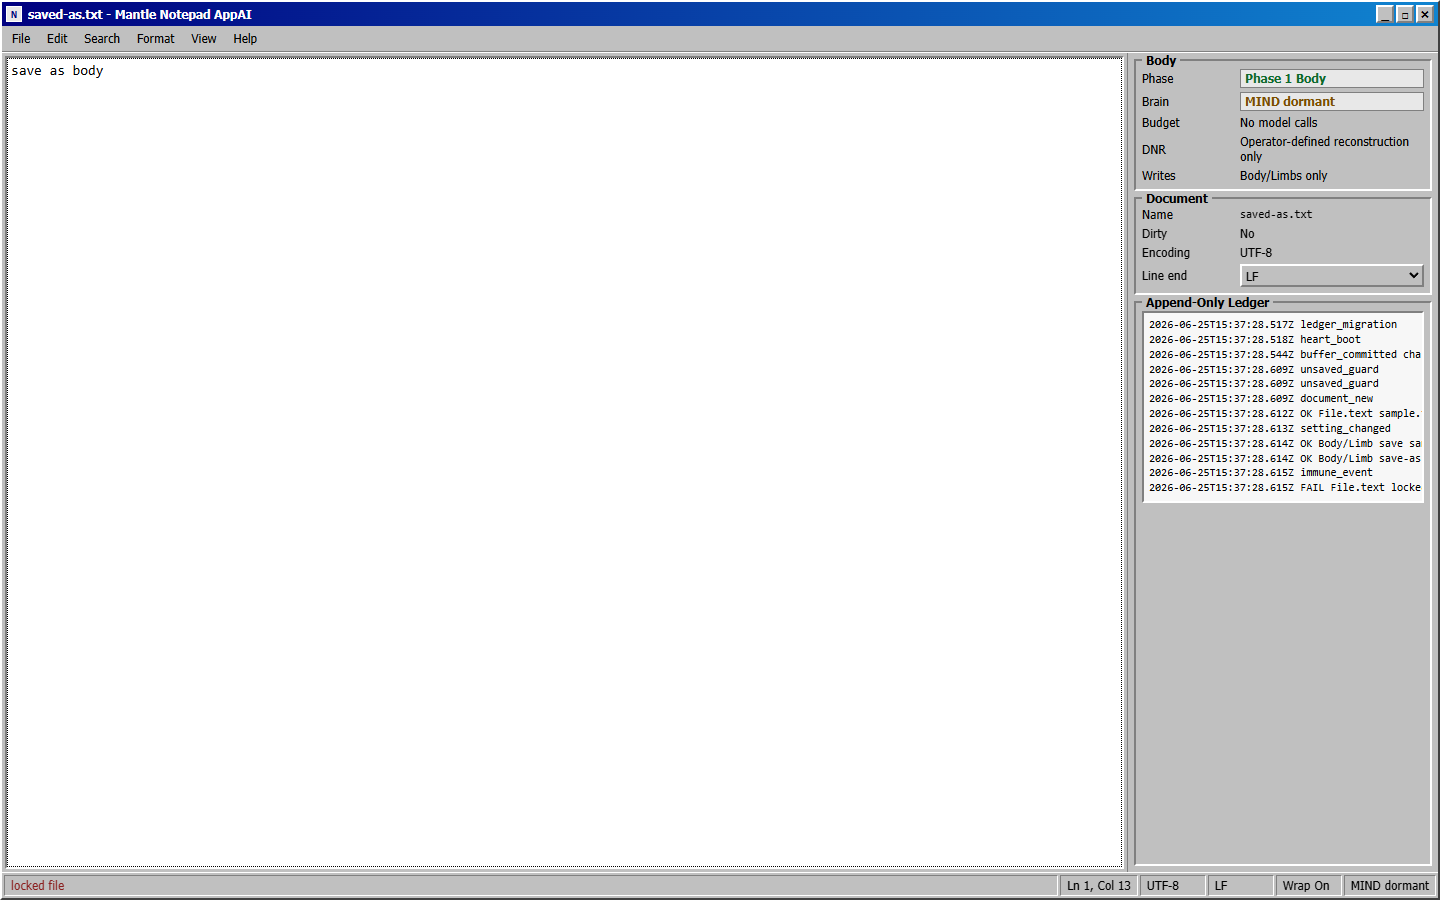
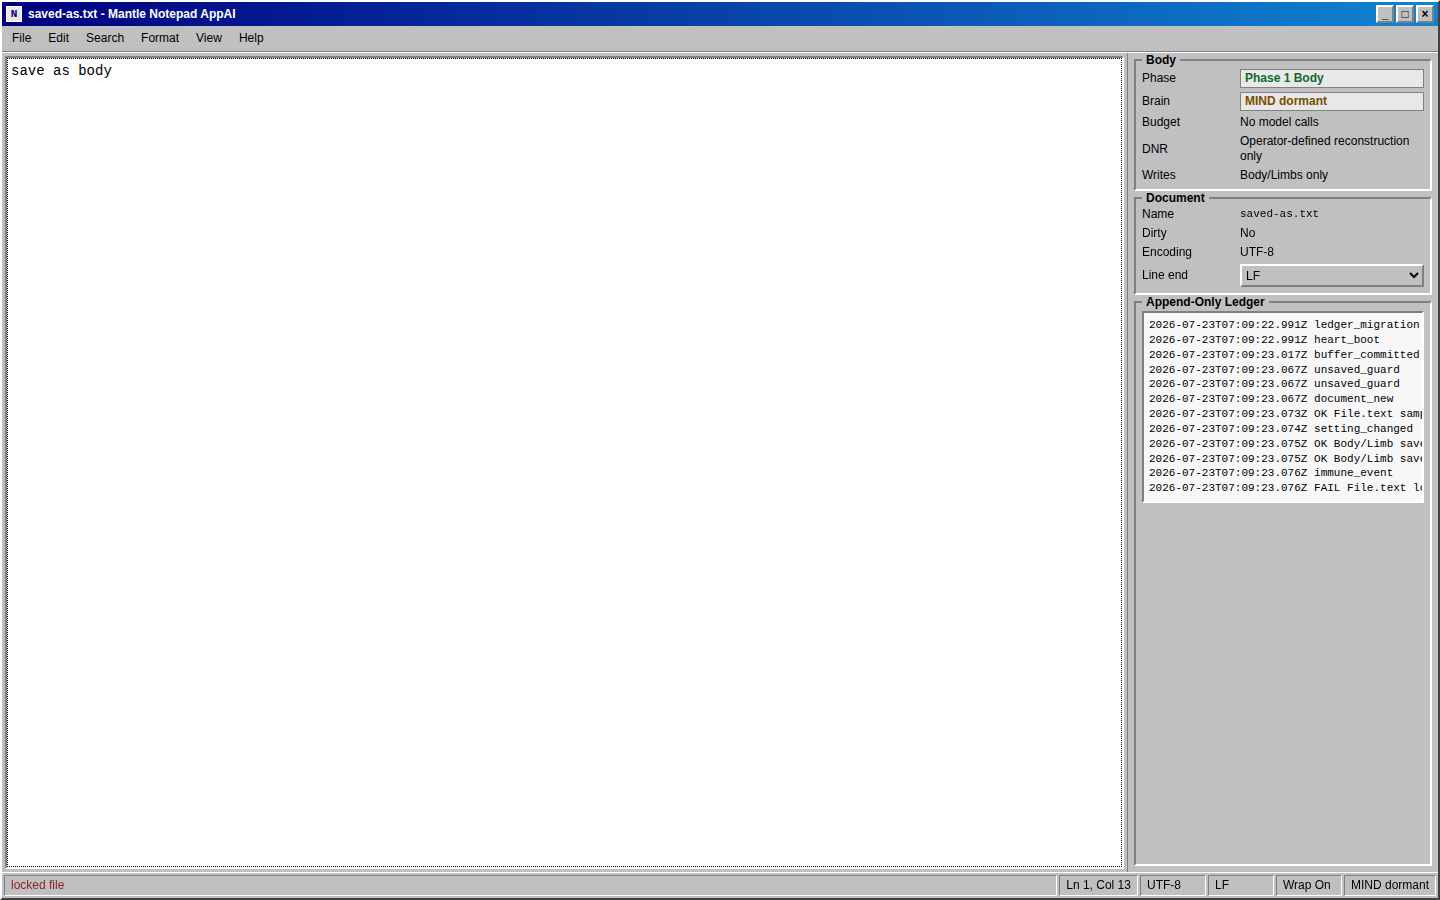
Release 1.4.0: the streamlining release
CHANGELOG entry for the rework: one artifact (the germ-carrying spore), one
birth door (mantle hatch), one reading order (README -> PRIMER -> teach),
derived counts, unified rebirth heirlooms, and the removal of the vendored
duplicate tree and the self-audit meta-layer. SECURITY.md's release reference
and the Hermes addon's version assertions now derive from the shipped runtime
instead of hardcoding a number.

Claude-Session: https://claude.ai/code/session_017nZVpKX3sxMREac5PaZ87n

diff --git a/examples/Mantle_Spreadsheet_Agent.html b/examples/Mantle_Spreadsheet_Agent.html
@@ -499,10 +499,9 @@
       framework: "Mantle OS · Gen-4",
       auditBundle: [
         "documents/PRIMER.md",
-                "documents/PRIMER.md",
         "documents/FIELD_GUIDE.md",
         "documents/Mantle_Organ_Atlas.md",
-                                "documents/ARCHITECTURE.md",
+        "documents/ARCHITECTURE.md",
         "documents/grimoire/The Grimoire.md",
         "documents/Mantle_Extensions.md",
         "examples/vcw/GUIDE.md",

diff --git a/examples/hermes-mantle-addon/tests/test_tools.py b/examples/hermes-mantle-addon/tests/test_tools.py
@@ -51,6 +51,14 @@ class RecordingContext:
         )
 
 
+def shipped_mantle_version() -> str:
+    """The version literal of the runtime the addon actually loads (never hardcoded)."""
+    import re
+    tools = load_module("hermes_mantle_tools_version_probe", TOOLS_PATH)
+    source = (tools._MANTLE_PACKAGE / "__init__.py").read_text(encoding="utf-8")
+    return re.search(r'__version__ = "([^"]+)"', source).group(1)
+
+
 class MantleStatusTests(unittest.TestCase):
     def test_status_reports_vendored_mantle_capabilities(self):
         tools = load_module("hermes_mantle_tools", TOOLS_PATH)
@@ -58,7 +66,7 @@ class MantleStatusTests(unittest.TestCase):
         result = json.loads(tools.mantle_status({}))
 
         self.assertTrue(result["success"])
-        self.assertEqual("1.3.0", result["mantle_version"])
+        self.assertEqual(shipped_mantle_version(), result["mantle_version"])
         self.assertEqual("true", result["mantle_scope"])
         self.assertEqual("vendored", result["source"])
         self.assertTrue({"audit", "prove", "check", "assimilate"}.issubset(result["commands"]))
@@ -85,7 +93,7 @@ class MantleStatusTests(unittest.TestCase):
                     sys.modules[name] = original
 
         self.assertTrue(result["success"])
-        self.assertEqual("1.3.0", result["mantle_version"])
+        self.assertEqual(shipped_mantle_version(), result["mantle_version"])
         self.assertNotIn("fake-command", result["commands"])
         self.assertIn("audit", result["commands"])
 

diff --git a/examples/hermes-mantle-addon/tests/verify_real_plugin.py b/examples/hermes-mantle-addon/tests/verify_real_plugin.py
@@ -69,7 +69,7 @@ def _worker(mode: str) -> dict[str, object]:
             session_id="session-integration",
         )
     )
-    assert status["mantle_version"] == "1.3.0"
+    assert status["mantle_version"], "runtime version must be reported"
     discovery_entry = registry.get_entry("mantle_record_discovery")
     assert discovery_entry is not None
     discovery_text = "bounded integration discovery"

diff --git a/src/mantle/__init__.py b/src/mantle/__init__.py
@@ -13,7 +13,7 @@ the runnable audits and their tamper proofs.
     python -m mantle teach                       # the Field Guide, running
     python -m mantle hatch examples/spores/greeter.png --out=nest/
 """
-__version__ = "1.3.0"
+__version__ = "1.4.0"
 
 # The public API is exposed lazily (PEP 562): importing `mantle` is near-free; each name pulls
 # in its submodule only on first access. `from mantle import Organism` and `mantle.Organism`

diff --git a/CHANGELOG.md b/CHANGELOG.md
@@ -2,10 +2,50 @@
 
 All notable release-level changes are documented here.
 
-## [Unreleased]
+## [1.4.0] — 2026-07-23
+
+### Changed — the streamlining release: one artifact, one door, one reading order
+
+- **The spore is THE artifact.** A spore PNG may now carry a **germ** — the complete
+  AppAI build document (the former egg schema) — plus a build note any coding agent can
+  read to grow the app with or without Mantle installed. `mantle spore pack` packs a
+  germ into a spore; `examples/spores/` ships generated germ spores.
+- **One birth door.** `mantle hatch <spore.png|germ.json>` is the single birth command;
+  `hatch-spore` is absorbed. `egg.py` folded into the hatchery
+  (`validate_germ`/`load_germ`; both `mantle-germ-v1` and legacy `mantle-egg-v1`
+  formats are accepted). `hatch_from_spore` moved beside the incubator it always called.
+- **Assimilation emits a spore.** `mantle assimilate <host> --spore=out.png` condenses
+  the read-only dissection into the host's germ spore. A graft is a spore aimed at a
+  host: `load_graft` accepts graft-germ spores.
+- **Rebirth simplified.** One heirloom law (carried or immune-logged, never silent), one
+  carry rule for both heirloom bands; `vault.py` folded into the Reproduction organ
+  module that always owned the tissue. On-disk formats unchanged; ancestors stay
+  readable.
+- **Docs consolidated.** One reading order (README → `documents/PRIMER.md` →
+  `mantle teach`); PRIMER absorbs the Doctrine, Organism Lens, and Positioning;
+  ARCHITECTURE.md absorbs the architecture note and the Part 1/2 build+audit
+  narratives; REPRODUCTION.md is the canonical reproduction + rebirth doctrine; the
+  VCW guide absorbs the anatomical atlas and compliance tiers. The Grimoire gained a
+  scope banner (§7/§9 are the Mantle-binding sections).
+- **Counts are derived, never hardcoded.** The doctor's docs-vs-code gate now fails if
+  any document hardcodes an invariant count; `mantle prove` prints the live count.
+- **CLI dispatch is table-driven**; underscore aliases are derived.
+
+### Removed
+
+- The vendored duplicate of the entire repository inside the Hermes addon
+  (`examples/hermes-mantle-addon/vendor/`, 9.9 MB). The addon loads the runtime from
+  `MANTLE_ADDON_RUNTIME_ROOT`, its install-time `runtime/` copy, or the repo checkout.
+- The self-referential optimization-audit layer: `optimize_audit.py`,
+  `documents/refinement/`, and 21 unregistered meta-invariant functions.
+- Scratch notes (`New_Commandments.txt`), the NotepadNext lifecycle zip (superseded by
+  `assimilate --spore`), and fourteen merged documentation files.
 
 ### Added
 
+- Invariant **SPORE-3** (germ round trip): germ → spore → hatch → certified body whose
+  vault returns the same germ, with the key minted, never derived.
+- `assimilator.emit_spore`, `spore.pack_germ`, and the unified `hatchery.hatch`.
 - Plug-and-play Hermes addon installer and `/mind <prompt>` command for one explicit, unscheduled
   AppAI cognition pulse through Hermes's active host LLM.
 - VCW persistence for content-withheld interactive MIND markers, hash-only request/response traces,
@@ -13,6 +53,10 @@ All notable release-level changes are documented here.
 
 ### Security
 
+- All standing laws re-proven unchanged: keys minted at birth (never derived from a
+  spore), foreign conversation ingested as INFERRED through Senses, the Stage-1 gate
+  mandatory on every birth path, do-no-harm census on every graft, and the heirloom
+  carry across rebirth.
 - Interactive MIND contact remains transient and user-directed; it does not attach the Brain, start
   autonomous cognition, or bypass independent production-fusion authority.
 - Echoed prompts are returned to the requesting surface but never written to any VCW band or

diff --git a/SECURITY.md b/SECURITY.md
@@ -29,7 +29,7 @@ Include:
   authority.
 - Production MIND fusion requires fresh resident-bound evidence plus distinct authenticated
   operator and guardian approvals.
-- Reproduction is disabled by default and is not authorized by the 1.3.0 release.
+- Reproduction is disabled by default and is not authorized by the 1.4.0 release.
 - Authority credentials and provider credentials are deployment secrets and must never be
   committed.
 - The Hermes addon is fail-open toward host operation but fail-closed toward fusion authority.